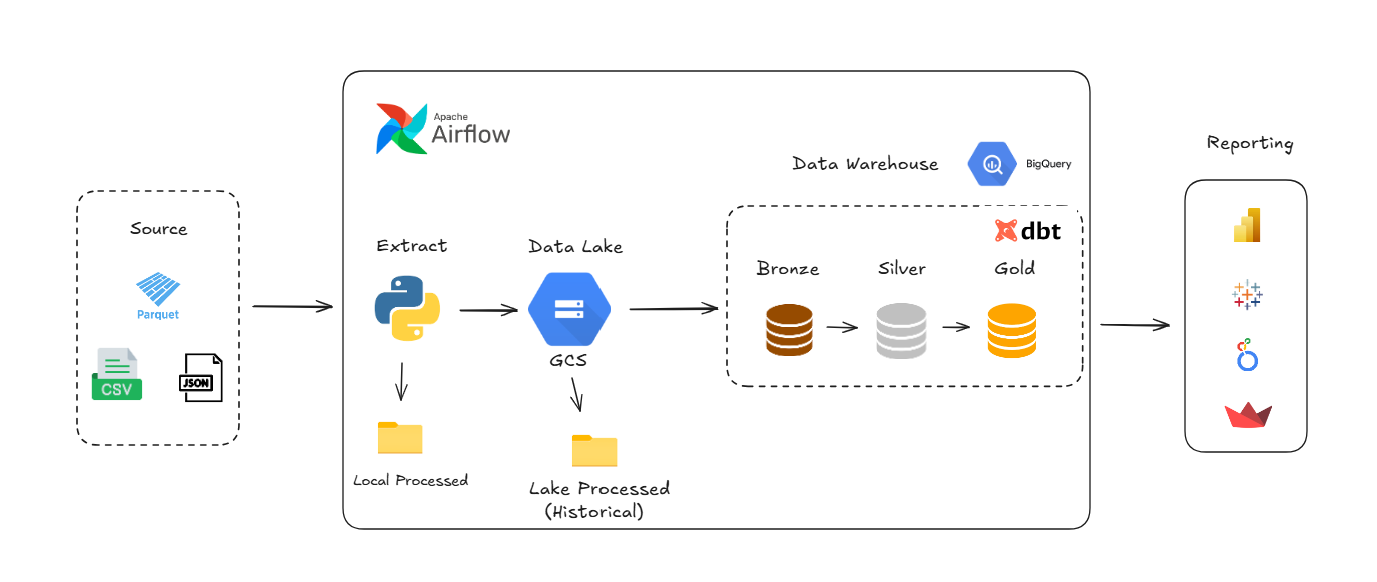
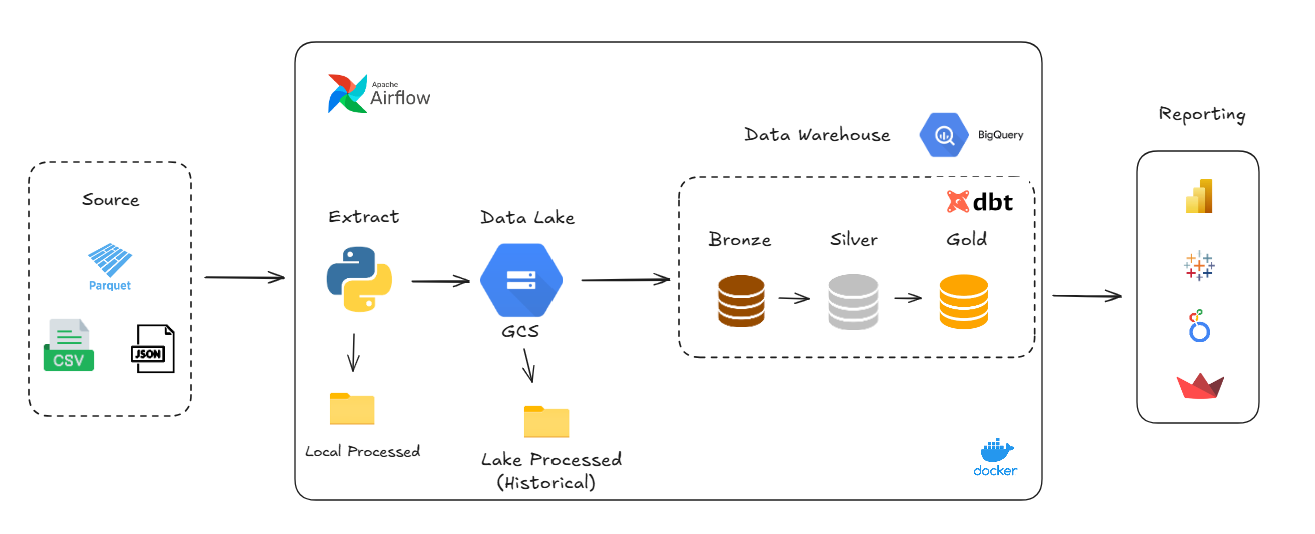
added readme

diff --git a/README.md b/README.md
@@ -1,177 +1,43 @@
-# CRUD Project with FastAPI
+# Data Pipeline Project with Airflow, dbt, and Google Cloud
 
 ## Overview
-### This project involves building an interactive Dashboard to perform an API's basics operations (Create, Read, Update and Delete). The application uses Docker, which allows us to run anywhere if we have docker installed in our own machine. Steps Bellow ⬇⬇!
+### This project involves building an automated data pipeline using Airflow, Cosmos, dbt, and Google Cloud. The main goal of this pipeline is to integrate different data sources, process and transform raw data, and store it in a cloud data warehouse (Google BigQuery). The project uses Docker for containerization and orchestration to ensure easy deployment and scalability. Below is a step-by-step breakdown of how the data pipeline is built and operates. ⬇⬇!
 
 ## Architecture:
-![CRUD Image](assets/project_arch)
+![Pipeline](assets/project_arch)
 
-## Installing and Using Docker
+## Building the Pipeline
+================
+1. Data Ingestion: Store raw data in a scalable data lake. Here we'll use Google cloud storage (GCS).
 
-```bash
-docker-compose up -d --build
-```
+2. ETL/ELT Pipelines:
+    - Move data from the lake to a structured data warehouse, BigQuery.
+    - Use dbt (dbt cli) to define simple models for transforming raw data into meaningful, analytics-ready models.
 
-- Frontend:
-Access the address http://localhost:8502
+3. Orchestration: Use Airflow (via Astronomer) to automate and schedule pipeline tasks.
 
-- Backend Docs with Swagger:
-Access the address http://localhost:8000
+1. [Docker](https://www.docker.com):
+    Docker is a containerization platform that allows you to package applications and their dependencies into portable containers. In this project, Docker is used to containerize all components of the pipeline (dbt, Airflow, Metabase,     etc.), ensuring consistent environments across local development and deployment. It simplifies setup and makes the pipeline reproducible and scalable.
 
-- pgAdmin to directly access the Database:
-Access the address http://localhost:8080
-Standard credentials:
+2. [Astro](https://www.astronomer.io/docs):
+    Astro (by Astronomer) is a cloud-native data orchestration platform built around Apache Airflow. It simplifies Airflow deployment, monitoring, and scaling. In this project, Astro is used to deploy and manage Airflow pipelines with     a production-grade interface, providing version control, observability, and seamless integration with tools like Cosmos and dbt.
 
-`User : admin@admin.com`
+3. [Airflow](https://airflow.apache.org):
+    Apache Airflow is an open-source workflow orchestration tool used to programmatically create, schedule, and monitor data workflows. In this project, Airflow is used to automate the ETL process — from ingesting raw data to GCS,         uploading to BigQuery, transforming with dbt, to quality testing — enabling full reliable pipeline automation.
 
-`Password : admin@123`
+5. [Google Cloud Storage (GCS)](https://console.cloud.google.com):
+GCS is an object storage service for unstructured data. It serves as the data lake in this project, where raw Billboard datasets are initially stored. GCS provides scalable, cost-effective storage that can be accessed by Airflow       and dbt for downstream processing.
 
-## Folder Structure and files:
-```
-├── README.md # Project Docs
-├── .python-version # Local env Python version
-├── backend # Backend Folder (FastAPI, SQLAlchemy, Uvicorn, Pydantic)
-├── frontend # Frontend Folder (Streamlit, Requests, Pandas)
-├── docker-compose.yml # Docker compose file (backend, frontend, postgres, pgAdmin)
-└── requirements.txt # Requirements file containing all Dependencies to be installed
-```
+6. [BigQuery](https://console.cloud.google.com):
+    BigQuery is a fully managed, serverless data warehouse by Google Cloud. In this project, it acts as the central data warehouse, where cleaned and transformed data (via dbt) is loaded. It enables fast, SQL-based analysis and            supports seamless integration with BI tools like Metabase for reporting.
 
-## Backend
+8. [DBT](https://www.getdbt.com/):
+    dbt (data build tool) is used for transforming raw data in the warehouse using SQL and modular, version-controlled data models. In this project, dbt is used to transform data and make them data analysis-ready in BigQuery. The CLI      version is used and it allows tight integration with Airflow and Cosmos for automation.
 
-The Backend is an API responsible for the communication between our Frontend and our Postgres Database. Let's detail it little bit.
+9. [Cosmos](https://www.astronomer.io/cosmos):
+    Cosmos is an open-source Airflow provider by Astronomer that allows you to run dbt projects natively as Airflow tasks. In this project, Cosmos dynamically converts dbt models into Airflow tasks with their dependencies preserved,       enabling fine-grained orchestration, monitoring, and retries — all while keeping the dbt DAG structure intact.
 
-## FastAPI
 
-FastAPI is a web framework for building API's. It's based on Starlette, which is an asynchronous framework for building API's.
-
-## Uvicorn
-
-Uvicorn is an asynchronous web server based on ASGI, specified to assync web servers. It is the most recommended one to use with FastAPI.
-
-## SQLAlchemy
-
-SQLAlchemy is a library that allows us to communicate with our database. It's an ORM (Object Relational Mapper), which is an object-relational feature that allows the communication with a database using an object. It's compatible with many databases (MySQL, PostgreSQL, SQlite, Oracle, SQL Server and many more). SQLAlchemy even handles data sanitization, avoiding SQL Injection attacks.
-
-## Pydantic
-Pydantic it's a library responsible for validating the data that we're receiving from the API.
-
-## docker-compose.yml
-This file `docker-compose.yml` defines an application with 4 services: `postgres`, `backend`, `frontend`, and `pgAdmin`, and creates a network `mynetwork`. 
-
-#### Postgres:
-* `image: postgres:latest`: This service uses the latest PostgreSQL image available on Docker Hub.
-* `volumes`: Maps the `/var/lib/postgresql/data` directory inside the PostgreSQL container to a volume called `postgres_data` on the host system. This ensures that the database data persists even when the container is stopped.
-* `environment`: Defines environment variables to configure the PostgreSQL database, such as the database name (`POSTGRES_DB`), username (`POSTGRES_USER`), and password (`POSTGRES_PASSWORD`).
-* `networks`: Specifies that this service is on the network called `mynetwork`.
-
-#### Backend
-
-* `build:` Specifies that Docker should build an image for this service using a Dockerfile located in the `./backend` directory.
-* `volumes:` Maps the `./backend` directory (on the host system) to the `/app` directory inside the container. This allows changes in the backend source code to be reflected in the container in real time.
-* `environment:` Defines the `DATABASE_URL` environment variable, which specifies the connection URL for the PostgreSQL database.
-* `ports:` Maps port `8000` on the host system to port `8000` on the container, allowing the service to be accessed through port `8000`.
-* `depends_on:` Indicates that this service depends on the `postgres` service, ensuring that the database is ready before the backend is started.
-* `networks:` Also specifies that this service is on the mynetwork `network`.
-
-Backend Directory Structure:
-```
-├── Dockerfile
-├── crud.py # Contains the functions for each operation using the SLQAlchemy ORM
-├── database.py # Contains the config to the SQLAlchemy
-├── main.py
-├── models.py # Reflects the database table model
-├── schemas.py # Contains the Pydantic validator model, which is going to be input by the user. It doesn't have the ID and created_at fields
-├── router.py # Contains all the routes calling the funcions from the crud.py file
-└── requirements.txt # Requirements and libs for the Backend
-```
-
-#### Frontend
-* `build`: Similar to the backend, specifies that Docker should build an image for this service using a Dockerfile located in the `./frontend` directory.
-* `volumes`: Maps the `./frontend` directory (on the host system) to the `/app` directory inside the container, allowing real-time changes.
-* `ports`: Maps port `8502` on the host system to port 8502 on the container, allowing access to the frontend through port `8502`.
-* `networks`: Specifies that this service is also on the `mynetwork` network.
-  
-Frontend directory Structure:
-```
-├── Dockerfile
-├── .dockerignore
-├── app.py
-└── requirements.txt # Requirements and libs for the Backend
-```
-
-### Networks:
-* `mynetwork`: Defines a custom network for the services to communicate with each other.
-
-### Volumes:
-* `postgres_data`: Defines a volume to store the PostgreSQL database data.
-
-## `database.py` File
-
-The `database.py` file is responsible for setting up the database connection using SQLAlchemy. It handles both establishing the connection with the database and creating the database session.
-
-If you want to switch databases, you only need to change the connection URL, which is stored in the POSTGRES_URL variable. SQLAlchemy is compatible with various databases, such as MySQL, PostgreSQL, SQLite, Oracle, Microsoft SQL Server, Firebird, Sybase, and even Microsoft Access.
-
-The main components of this file are the engine, which is the connection to the database, and SessionLocal, which is the session used to interact with the database. SessionLocal is responsible for executing queries in the database.
-
-Remember:
-1) Declare the Database URL
-2) Create the engine using the `create_engine` statement
-3) Create a Session for the database
-4) Create the ORM Base (The model is going to inherit from it)
-5) Create a Session generator to be re-used (I created a `get_db()`)
-
-## `models.py` File:
-The models.py file is responsible for defining the SQLAlchemy models, which are the classes that represent the tables in the database. These models are used to communicate with the database.
-In this file, we define the table name, the fields, and their data types. We can also include automatically generated fields, such as the `id` and `created_at`. For example:
-For the `id` field, by setting the field type to `Integer` and using the `primary_key=True` parameter, SQLAlchemy automatically recognizes this field as the primary key of the table.
-
-For the `created_at` field, by setting the field type to DateTime and using the default=datetime parameter, SQLAlchemy understands that this field will store the creation date of the record.
-
-Remember:
-1) The model doesn't know which database is created, it's indifferent. It'll import the base from the database!
-2) Declare your table
-
-## `schemas.py` File:
-The `schemas.py` file is responsible for defining the Pydantic schemas, which are the classes that define the data types used in the API. These schemas are used to validate the data received by the API and to define the data types that are returned by the API.
-
-Pydantic is the main library for data validation in Python, and is used by FastAPI to perform validation on the incoming data and to define the data types returned by the API.
-
-Additionally, Pydantic integrates very well with SQLAlchemy, the library used to communicate with the database.
-
-`ProductBase` Schema
-This is the base schema for creating products. It defines the fields and validation rules for data received by the API. It is used for both validating incoming data and defining the response types that are returned by the API.
-
-`ProductCreate` Schema
-This schema is used when creating a product. It inherits from ProductBase and adds an id field, which is used to uniquely identify the product in the database.
-
-`ProductResponse` Schema
-This schema is used for the response sent back by the API. It inherits from ProductBase and adds two extra fields: id and created_at. These fields are generated by the database.
-
-`ProductUpdate` Schema
-This schema is used for updating product data. It is similar to ProductBase but with optional fields. Not all fields need to be provided for an update, which makes it flexible for partial updates.
-
-## `crud.py` File:
-The `router.py` file is responsible for defining the API routes using FastAPI. It is where the routes are set up and where the functions that will be executed for each route are defined. Each function defined here takes a parameter called request, which is the object that contains the data of the incoming request.
-
-The main parameters are:
-
-* `path`: The route path, which defines the URL endpoint.
-
-* `methods`: The HTTP methods that the route accepts.
-
-* `response_model`: The schema that is returned by the route.
-
-```python
-@router.get("/products/{product_id}", response_model=ProductResponse)
-def get_product(product_id: int, db:Session = Depends(get_db)):
-    db_product = get_product_by_id(product_id, db=db)
-    if db_product is None:
-        raise HTTPException(status_code=404, detail= "Product not found")
-    return db_product
-```
-
-## `main.py` File:
-The `main.py` file is responsible for defining the FastAPI application and also for setting up the `Uvicorn` web server. It is where you configure the web server, as well as its settings, such as the host and port.
-
-## Streamlit
-Streamlit is a library for building web applications with Python. It is widely used for creating dashboards and also for building applications that consume APIs.
+Contact
+=======
+Connect with me on LinkedIn ✌ : [Guilherme Arruda](https://www.linkedin.com/in/arruda-guilherme/)
